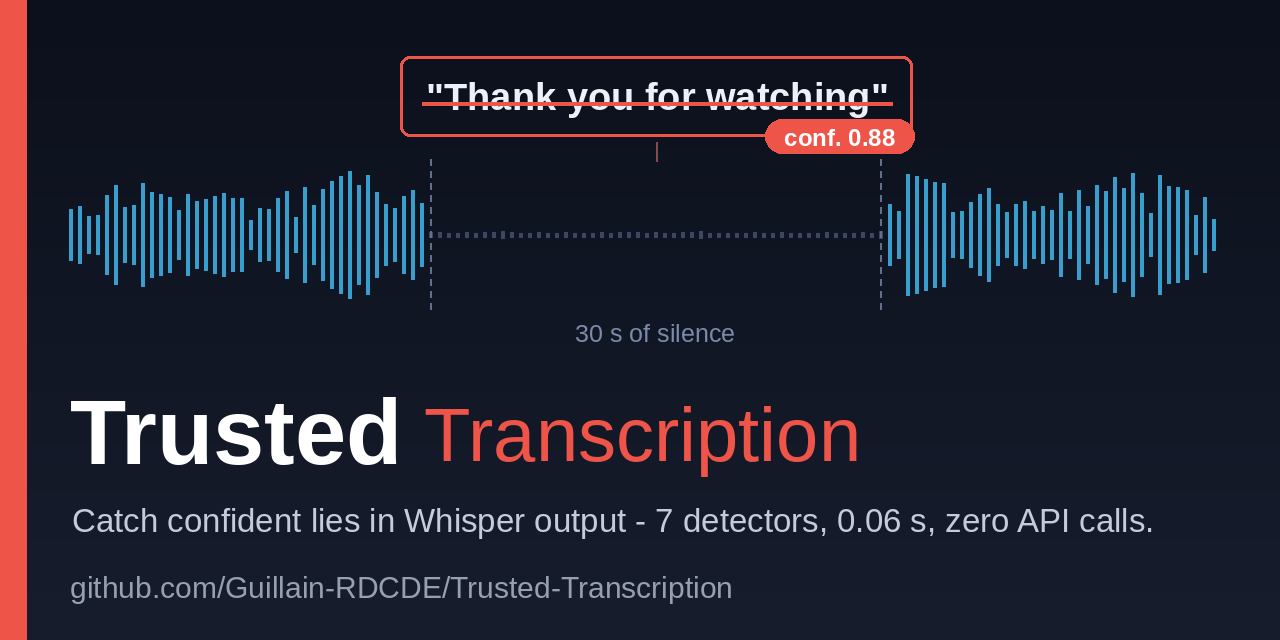
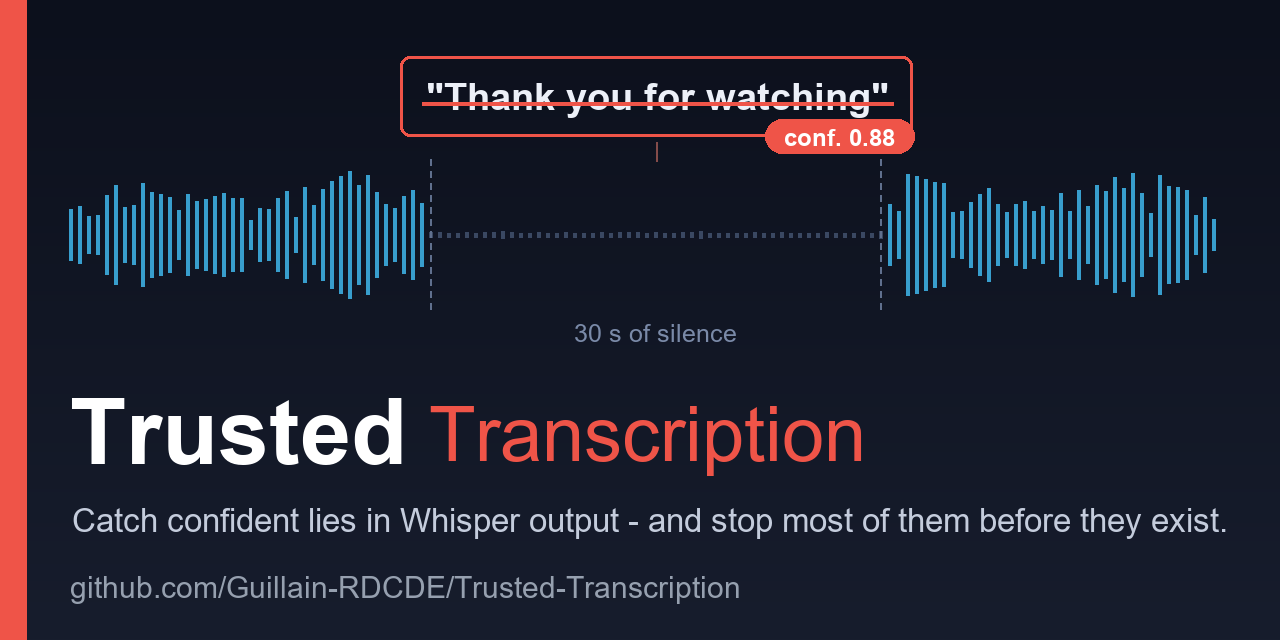
Social preview: the promise without the stale counts
The card said how many detectors there were and how fast they ran;
both numbers had been wrong since the second release, and the README
prose had already dropped them. Regenerated from the shared card
generator: same family, same image, a promise that does not age.

diff --git a/CHANGELOG.md b/CHANGELOG.md
@@ -1,5 +1,12 @@
 # Changelog
 
+## Unreleased
+
+### Changed
+- Social preview card regenerated: the promise no longer carries a
+  detector count or a timing, which had been stale since the second
+  release.
+
 ## 0.10.0 — 2026-09-26
 
 ### Added
